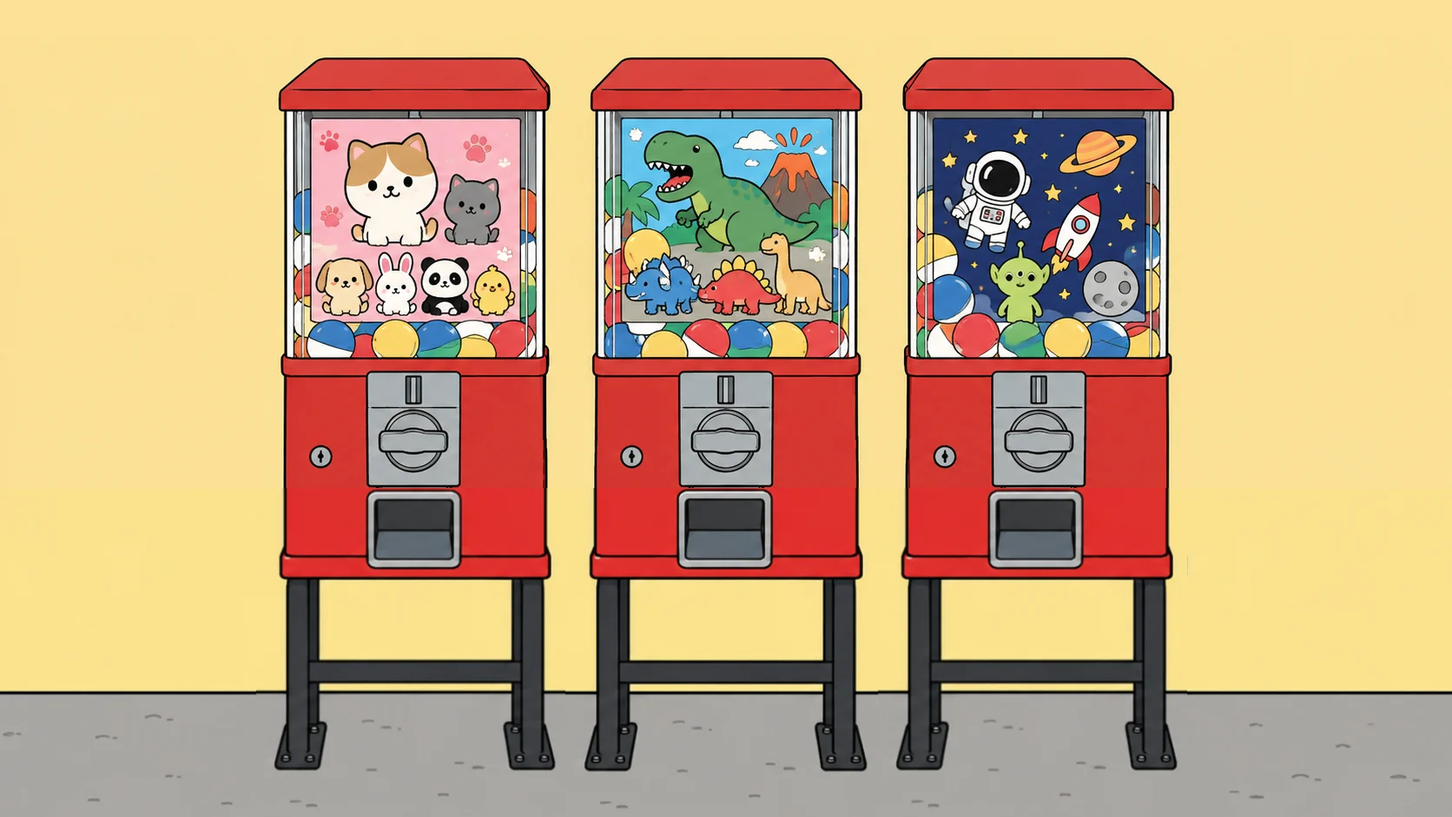
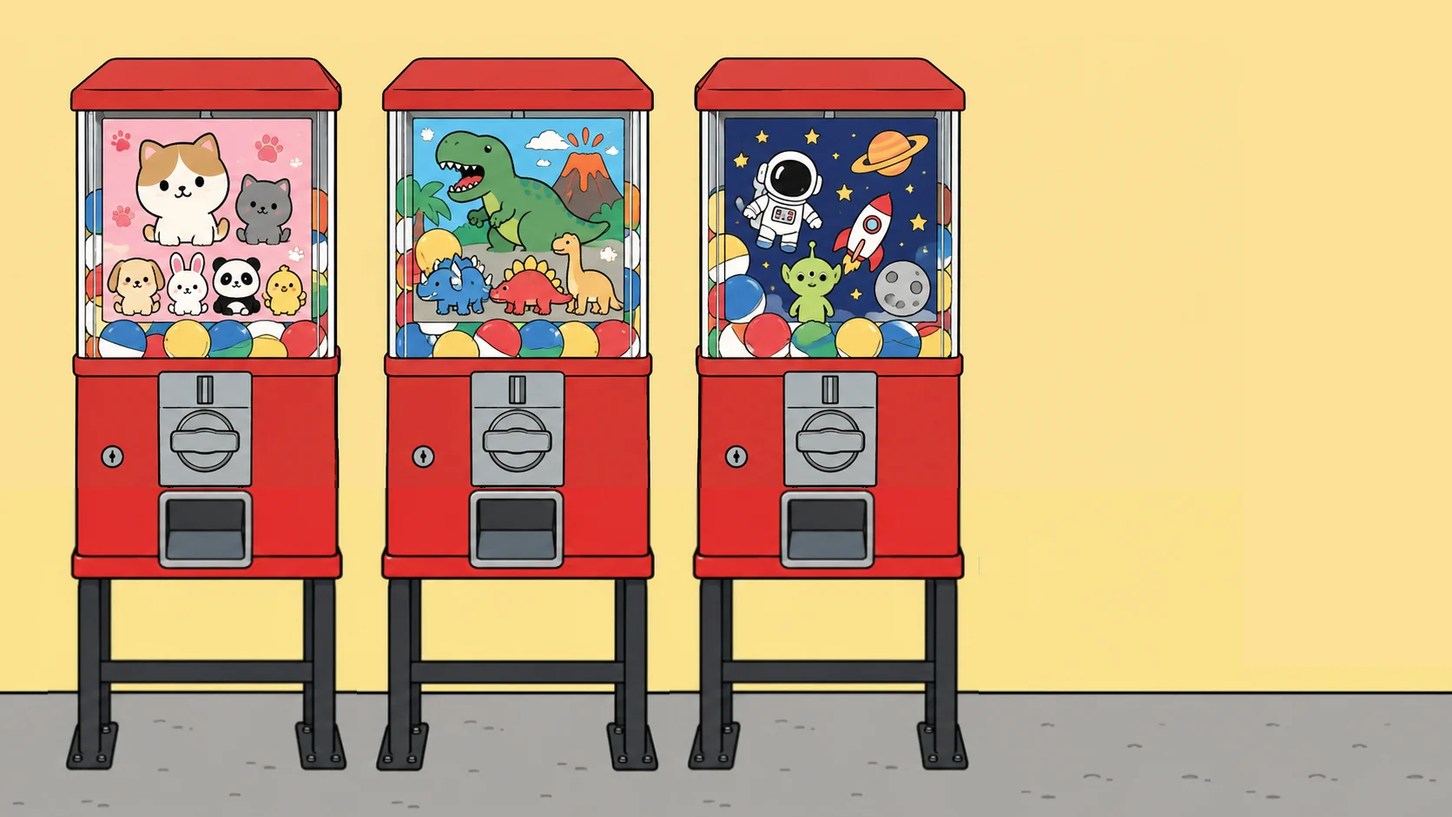
Add files via upload

diff --git a/index.html b/index.html
@@ -18,18 +18,18 @@
     <!-- html2canvas (PNG 저장용) -->
     <script src="https://cdnjs.cloudflare.com/ajax/libs/html2canvas/1.4.1/html2canvas.min.js"></script>
 
-    <script src="js/features.js?v=20261009-1021"></script>   <!-- 🔓 기능 공개 스위치 (다른 것보다 먼저) -->
-    <script src="js/util.js?v=20261009-1021"></script>   <!-- 🧰 공용 도구 (htmlEsc · josa · lsGet · lsSet) -->
-    <script src="js/onlyone.js?v=20261009-1021"></script>   <!-- 🔒 한 기기에 다이어리 하나만 (먼저 연 창만 · 다른 것보다 먼저) -->
+    <script src="js/features.js?v=20261009-1022"></script>   <!-- 🔓 기능 공개 스위치 (다른 것보다 먼저) -->
+    <script src="js/util.js?v=20261009-1022"></script>   <!-- 🧰 공용 도구 (htmlEsc · josa · lsGet · lsSet) -->
+    <script src="js/onlyone.js?v=20261009-1022"></script>   <!-- 🔒 한 기기에 다이어리 하나만 (먼저 연 창만 · 다른 것보다 먼저) -->
     <link rel="preload" as="image" href="img/gate-wide.webp?v=20261009-819" media="(min-aspect-ratio: 1/1)">   <!-- 🚪 로그인 문 그림을 먼저 받아요 (켤 때 바탕색만 잠깐 보이는 것 줄이기 · 도련 10-29) -->
     <link rel="preload" as="image" href="img/gate-tall.webp?v=20261009-819" media="(max-aspect-ratio: 1/1)">
-    <link rel="stylesheet" href="css/style.css?v=20261009-1021">
-    <link rel="stylesheet" href="css/dakku.css?v=20261009-1021">
-    <link rel="stylesheet" href="css/anime.css?v=20261009-1021">
-    <link rel="stylesheet" href="css/calroom.css?v=20261009-1021">   <!-- 📅 달력 (💻 📲 · js/calroom.js) -->   <!-- 🎬 애니 스타일 (맨 뒤 · js/anime.js) -->
-    <link rel="stylesheet" href="css/postroom.css?v=20261009-1021">   <!-- 📮 우체통 (💻 📲 · js/postroom.js) -->
-    <link rel="stylesheet" href="css/tarotroom.css?v=20261009-1021">   <!-- 🔮 타로카페 (💻 📲 · js/tarotroom.js) -->
-    <link rel="stylesheet" href="css/gachascene.css?v=20261009-1021">   <!-- 🏪 문방구 앞 캡슐기계 (💻 📲 · js/gacha.js gcSceneBuild) -->
+    <link rel="stylesheet" href="css/style.css?v=20261009-1022">
+    <link rel="stylesheet" href="css/dakku.css?v=20261009-1022">
+    <link rel="stylesheet" href="css/anime.css?v=20261009-1022">
+    <link rel="stylesheet" href="css/calroom.css?v=20261009-1022">   <!-- 📅 달력 (💻 📲 · js/calroom.js) -->   <!-- 🎬 애니 스타일 (맨 뒤 · js/anime.js) -->
+    <link rel="stylesheet" href="css/postroom.css?v=20261009-1022">   <!-- 📮 우체통 (💻 📲 · js/postroom.js) -->
+    <link rel="stylesheet" href="css/tarotroom.css?v=20261009-1022">   <!-- 🔮 타로카페 (💻 📲 · js/tarotroom.js) -->
+    <link rel="stylesheet" href="css/gachascene.css?v=20261009-1022">   <!-- 🏪 문방구 앞 캡슐기계 (💻 📲 · js/gacha.js gcSceneBuild) -->
     <script src="https://accounts.google.com/gsi/client" async defer></script>
 </head>
 <body>
@@ -971,112 +971,112 @@
     </div>
 
     <!-- 📦 코드 파일 (순서 중요 · 업데이트할 때 ?v= 뒤 숫자를 바꾸면 모든 사용자가 새 파일을 받아요) -->
-    <script src="js/localtest.js?v=20261009-1021"></script>   <!-- 💻 내 컴퓨터(localhost)에서만 : 로그인 없이 테스트 -->
-    <script src="js/trash.js?v=20261009-1021"></script>   <!-- 🗑 휴지통 : 지운 것 · 덮어쓰기 전 모습 30일 -->
-    <script src="js/backup.js?v=20261009-1021"></script>   <!-- 📦 백업 · 📥 불러오기 : 말랑달콤 폴더 통째로 zip -->
-    <script src="js/devsave.js?v=20261009-1021"></script>   <!-- 📁 로그인 없이 : 이 기기의 말랑달콤 폴더에 저장 -->
-    <script src="js/drive.js?v=20261009-1021"></script>
-    <script src="js/desk.js?v=20261009-1021"></script>   <!-- 🪑 책상 꾸미기 (💻 PC · 아이패드만) -->
-    <script src="js/deskpaint.js?v=20261009-1021"></script>
-    <script src="js/deskcustom.js?v=20261009-1021"></script>   <!-- 🎨 소품 꾸미기 창 (색칠 + 불빛 · 숫자 · 알람 · 사진 · 누르는 곳) -->   <!-- 🎨 책상 소품 꾸미기 (칠하기 · 이미지 붙이기) -->
-    <script src="js/coll.js?v=20261009-1021"></script>
-    <script src="js/sound.js?v=20261009-1021"></script>
-    <script src="js/app.js?v=20261009-1021"></script>
-    <script src="js/page.js?v=20261009-1021"></script>
-    <script src="js/elements.js?v=20261009-1021"></script>
-    <script src="js/tapmenu.js?v=20261009-1021"></script>
-    <script src="js/settings.js?v=20261009-1021"></script>
-    <script src="js/patterns.js?v=20261009-1021"></script>
+    <script src="js/localtest.js?v=20261009-1022"></script>   <!-- 💻 내 컴퓨터(localhost)에서만 : 로그인 없이 테스트 -->
+    <script src="js/trash.js?v=20261009-1022"></script>   <!-- 🗑 휴지통 : 지운 것 · 덮어쓰기 전 모습 30일 -->
+    <script src="js/backup.js?v=20261009-1022"></script>   <!-- 📦 백업 · 📥 불러오기 : 말랑달콤 폴더 통째로 zip -->
+    <script src="js/devsave.js?v=20261009-1022"></script>   <!-- 📁 로그인 없이 : 이 기기의 말랑달콤 폴더에 저장 -->
+    <script src="js/drive.js?v=20261009-1022"></script>
+    <script src="js/desk.js?v=20261009-1022"></script>   <!-- 🪑 책상 꾸미기 (💻 PC · 아이패드만) -->
+    <script src="js/deskpaint.js?v=20261009-1022"></script>
+    <script src="js/deskcustom.js?v=20261009-1022"></script>   <!-- 🎨 소품 꾸미기 창 (색칠 + 불빛 · 숫자 · 알람 · 사진 · 누르는 곳) -->   <!-- 🎨 책상 소품 꾸미기 (칠하기 · 이미지 붙이기) -->
+    <script src="js/coll.js?v=20261009-1022"></script>
+    <script src="js/sound.js?v=20261009-1022"></script>
+    <script src="js/app.js?v=20261009-1022"></script>
+    <script src="js/page.js?v=20261009-1022"></script>
+    <script src="js/elements.js?v=20261009-1022"></script>
+    <script src="js/tapmenu.js?v=20261009-1022"></script>
+    <script src="js/settings.js?v=20261009-1022"></script>
+    <script src="js/patterns.js?v=20261009-1022"></script>
     <!-- 🌟 카페에서 받아 등록한 사용자 패턴 (pattern-tool.html 로 만들어요 · 없거나 깨져도 다이어리는 정상 동작) -->
     <script src="js/community-patterns.js"></script>
     <!-- 🌟 카페에서 받아 등록한 모두의 스킨 (pattern-tool.html 로 만들어요 · 없거나 깨져도 다이어리는 정상 동작) -->
     <script src="js/community-skins.js"></script>
-    <script src="js/pattern-recipe.js?v=20261009-1021"></script>
-    <script src="js/skins.js?v=20261009-1021"></script>
-    <script src="js/bin.js?v=20261009-1021"></script>   <!-- 🗑 버린 상품 : 휴지통 30일 · 되살리기 · 영구 삭제 (모든 상품 공통) -->
-    <script src="js/dyyear.js?v=20261009-1021"></script>
-    <script src="js/bgown.js?v=20261009-1021"></script>
-    <script src="js/deskskin.js?v=20261009-1021"></script>   <!-- 🧱 벽지 · 🪵 책상 (책상 화면 · 샵 책상 소품 · 소품함) -->   <!-- 🌈 배경지 = 상품 (샵에서 받기 · 보관함 · 버리기) -->   <!-- 📔 기본 다이어리 = 1년짜리 날짜 다이어리 · 해마다 기본상품 샵에서 받기 · 다이어리 보관소 -->
-    <script src="js/dkguide.js?v=20261009-1021"></script>   <!-- 🩷 처음 쓰는 사람용 다꾸하는 법 메모 -->
-    <script src="js/dymaker.js?v=20261009-1021"></script>
-    <script src="js/pattern-maker.js?v=20261009-1021"></script>
-    <script src="js/skinstudio.js?v=20261009-1021"></script>
-    <script src="js/theme-skins.js?v=20261009-1021"></script>
-    <script src="js/doll-art.js?v=20261009-1021"></script>
-    <script src="js/doll-render.js?v=20261009-1021"></script>
-    <script src="js/doll-store.js?v=20261009-1021"></script>
-    <script src="js/doll-room.js?v=20261009-1021"></script>
-    <script src="js/doll-move.js?v=20261009-1021"></script>
-    <script src="js/glrun.js?v=20261009-1021"></script>
-    <script src="js/char-move.js?v=20261009-1021"></script>
-    <script src="js/puppet.js?v=20261009-1021"></script>
-    <script src="js/service.js?v=20261009-1021"></script>
+    <script src="js/pattern-recipe.js?v=20261009-1022"></script>
+    <script src="js/skins.js?v=20261009-1022"></script>
+    <script src="js/bin.js?v=20261009-1022"></script>   <!-- 🗑 버린 상품 : 휴지통 30일 · 되살리기 · 영구 삭제 (모든 상품 공통) -->
+    <script src="js/dyyear.js?v=20261009-1022"></script>
+    <script src="js/bgown.js?v=20261009-1022"></script>
+    <script src="js/deskskin.js?v=20261009-1022"></script>   <!-- 🧱 벽지 · 🪵 책상 (책상 화면 · 샵 책상 소품 · 소품함) -->   <!-- 🌈 배경지 = 상품 (샵에서 받기 · 보관함 · 버리기) -->   <!-- 📔 기본 다이어리 = 1년짜리 날짜 다이어리 · 해마다 기본상품 샵에서 받기 · 다이어리 보관소 -->
+    <script src="js/dkguide.js?v=20261009-1022"></script>   <!-- 🩷 처음 쓰는 사람용 다꾸하는 법 메모 -->
+    <script src="js/dymaker.js?v=20261009-1022"></script>
+    <script src="js/pattern-maker.js?v=20261009-1022"></script>
+    <script src="js/skinstudio.js?v=20261009-1022"></script>
+    <script src="js/theme-skins.js?v=20261009-1022"></script>
+    <script src="js/doll-art.js?v=20261009-1022"></script>
+    <script src="js/doll-render.js?v=20261009-1022"></script>
+    <script src="js/doll-store.js?v=20261009-1022"></script>
+    <script src="js/doll-room.js?v=20261009-1022"></script>
+    <script src="js/doll-move.js?v=20261009-1022"></script>
+    <script src="js/glrun.js?v=20261009-1022"></script>
+    <script src="js/char-move.js?v=20261009-1022"></script>
+    <script src="js/puppet.js?v=20261009-1022"></script>
+    <script src="js/service.js?v=20261009-1022"></script>
     <!-- 🎁 랜덤박스 (없어도 다이어리는 정상 동작) -->
-    <script src="js/gacha.js?v=20261009-1021"></script>
-    <script src="js/presence.js?v=20261009-1021"></script>
-    <script src="js/fbase.js?v=20261009-1021"></script>   <!-- 🔥 파이어스토어 연결 (🔔 선물 벨 · 📞 전화기) -->
-    <script src="js/fphone.js?v=20261009-1021"></script>   <!-- 📞 반짝이 피처폰 메신저 (로그인 회원끼리) -->
+    <script src="js/gacha.js?v=20261009-1022"></script>
+    <script src="js/presence.js?v=20261009-1022"></script>
+    <script src="js/fbase.js?v=20261009-1022"></script>   <!-- 🔥 파이어스토어 연결 (🔔 선물 벨 · 📞 전화기) -->
+    <script src="js/fphone.js?v=20261009-1022"></script>   <!-- 📞 반짝이 피처폰 메신저 (로그인 회원끼리) -->
     <!-- 🎵 배경음악 (없어도 다이어리는 정상 동작) -->
-    <script src="js/bgm.js?v=20261009-1021"></script>
+    <script src="js/bgm.js?v=20261009-1022"></script>
     <!-- 🔮 포춘카드 (없어도 다이어리는 정상 동작) -->
-    <script src="js/fortune.js?v=20261009-1021"></script>
+    <script src="js/fortune.js?v=20261009-1022"></script>
     <!-- 🕹 오락실 (없어도 다이어리는 정상 동작) -->
-    <script src="js/arcade.js?v=20261009-1021"></script>
-    <script src="js/hof.js?v=20261009-1021"></script>
+    <script src="js/arcade.js?v=20261009-1022"></script>
+    <script src="js/hof.js?v=20261009-1022"></script>
     <!-- 🌙 꿈해몽 (상징 사전 js/dream-data.js 는 꿈해몽을 열 때 불러와요 · 없어도 다이어리는 정상 동작) -->
-    <script src="js/ritual.js?v=20261009-1021"></script>
-    <script src="js/dream.js?v=20261009-1021"></script>
+    <script src="js/ritual.js?v=20261009-1022"></script>
+    <script src="js/dream.js?v=20261009-1022"></script>
     <!-- 🎍 토정비결 (음력 계산 js/lib/korean-lunar-calendar.min.js 는 토정비결을 열 때 불러와요 · 없어도 다이어리는 정상 동작) -->
-    <script src="js/tojeong.js?v=20261009-1021"></script>
-    <script src="js/plant.js?v=20261009-1021"></script>
-    <script src="js/capsule-stickers.js?v=20261009-1021"></script>
-    <script src="js/attend.js?v=20261009-1021"></script>
-    <script src="js/tape.js?v=20261009-1021"></script>
-    <script src="js/paper.js?v=20261009-1021"></script>
-    <script src="js/leafpad.js?v=20261009-1021"></script>
-    <script src="js/leafmaker.js?v=20261009-1021"></script>
-    <script src="js/draw.js?v=20261009-1021"></script>
-    <script src="js/pencase.js?v=20261009-1021"></script>
-    <script src="js/frame.js?v=20261009-1021"></script>
-    <script src="js/season-data.js?v=20261009-1021"></script>
-    <script src="js/season.js?v=20261009-1021"></script>
-    <script src="js/lock.js?v=20261009-1021"></script>
-    <script src="js/cycle.js?v=20261009-1021"></script>
-    <script src="js/month.js?v=20261009-1021"></script>
-    <script src="js/stamp.js?v=20261009-1021"></script>
-    <script src="js/search.js?v=20261009-1021"></script>
-    <script src="js/dday.js?v=20261009-1021"></script>
-    <script src="js/calroom.js?v=20261009-1021"></script>   <!-- 📅 달력 : 출석 · 생리 · D-day 한 장 (💻 📲) -->
-    <script src="js/postroom.js?v=20261009-1021"></script>   <!-- 📮 우체통 : 익명 편지함 · 건의함 (💻 📲) -->
-    <script src="js/tarotroom.js?v=20261009-1021"></script>   <!-- 🔮 타로카페 : 카드 다섯 장 = 메뉴 (💻 📲) -->
-    <script src="js/show.js?v=20261009-1021"></script>
-    <script src="js/press.js?v=20261009-1021"></script>
-    <script src="js/photobooth.js?v=20261009-1021"></script>
-    <script src="js/stickermaker.js?v=20261009-1021"></script>
-    <script src="js/stickerpeel.js?v=20261009-1021"></script>
-    <script src="js/stkedit.js?v=20261009-1021"></script>   <!-- 🎨 스티커 다듬기 : 씰 종이에서 떼기 전에 색 · 뒤집기 · 자르기 · 지우개 · 글씨 · 반짝이 -->
-    <script src="js/stkcut.js?v=20261009-1021"></script>   <!-- ✂ 스티커 자르기 : 꾹 누르기 메뉴 → 스티커 칼로 가로질러 그어 두 조각 -->
-    <script src="js/ruler.js?v=20261009-1021"></script>   <!-- 📏 자 : 연필꽂이에서 뽑아 페이지에 깔아 둬요 · 칼 · 색연필을 대면 반듯하게 · 진짜 cm -->
-    <script src="js/piecebag.js?v=20261009-1021"></script>
-    <script src="js/dakku.js?v=20261009-1021"></script>
-    <script src="js/papermaker.js?v=20261009-1021"></script>
-    <script src="js/stk-basic.js?v=20261009-1021"></script>
-    <script src="js/peelfx.js?v=20261009-1021"></script>
-    <script src="js/tapemaker.js?v=20261009-1021"></script>
-    <script src="js/sharebox.js?v=20261009-1021"></script>
-    <script src="js/namematch.js?v=20261009-1021"></script>
-    <script src="js/psytest-data.js?v=20261009-1021"></script>
-    <script src="js/psytest.js?v=20261009-1021"></script>
-    <script src="js/letter.js?v=20261009-1021"></script>
-    <script src="js/install.js?v=20261009-1021"></script>
-    <script src="js/piggy.js?v=20261009-1021"></script>
-    <script src="js/wall.js?v=20261009-1021"></script>
-    <script src="js/arrival.js?v=20261009-1021"></script>
-    <script src="js/own.js?v=20261009-1021"></script>   <!-- 🎒 유한 스티커 : 내 종이 저장 · 한 번 쓰면 영원히 사라져요 -->
-    <script src="js/basket.js?v=20261009-1021"></script>   <!-- 🧺 내 바구니 · 🏪 기본상품 샵 -->
-    <script src="js/itemshare.js?v=20261009-1021"></script>   <!-- 📤 공유 파일로 저장 · 📥 불러오기 (받으면 그 계정의 새 1개) -->
-    <script src="js/shopscene.js?v=20261009-1021"></script>
-    <script src="js/anime.js?v=20261009-1021"></script>   <!-- 🎬 애니 스타일 : SVG 그림을 단색 · 파스텔 선으로 (css/anime.css) -->   <!-- 🏪 기본상품 샵 가게 (문 → 연핑크 → 가게 안) -->
+    <script src="js/tojeong.js?v=20261009-1022"></script>
+    <script src="js/plant.js?v=20261009-1022"></script>
+    <script src="js/capsule-stickers.js?v=20261009-1022"></script>
+    <script src="js/attend.js?v=20261009-1022"></script>
+    <script src="js/tape.js?v=20261009-1022"></script>
+    <script src="js/paper.js?v=20261009-1022"></script>
+    <script src="js/leafpad.js?v=20261009-1022"></script>
+    <script src="js/leafmaker.js?v=20261009-1022"></script>
+    <script src="js/draw.js?v=20261009-1022"></script>
+    <script src="js/pencase.js?v=20261009-1022"></script>
+    <script src="js/frame.js?v=20261009-1022"></script>
+    <script src="js/season-data.js?v=20261009-1022"></script>
+    <script src="js/season.js?v=20261009-1022"></script>
+    <script src="js/lock.js?v=20261009-1022"></script>
+    <script src="js/cycle.js?v=20261009-1022"></script>
+    <script src="js/month.js?v=20261009-1022"></script>
+    <script src="js/stamp.js?v=20261009-1022"></script>
+    <script src="js/search.js?v=20261009-1022"></script>
+    <script src="js/dday.js?v=20261009-1022"></script>
+    <script src="js/calroom.js?v=20261009-1022"></script>   <!-- 📅 달력 : 출석 · 생리 · D-day 한 장 (💻 📲) -->
+    <script src="js/postroom.js?v=20261009-1022"></script>   <!-- 📮 우체통 : 익명 편지함 · 건의함 (💻 📲) -->
+    <script src="js/tarotroom.js?v=20261009-1022"></script>   <!-- 🔮 타로카페 : 카드 다섯 장 = 메뉴 (💻 📲) -->
+    <script src="js/show.js?v=20261009-1022"></script>
+    <script src="js/press.js?v=20261009-1022"></script>
+    <script src="js/photobooth.js?v=20261009-1022"></script>
+    <script src="js/stickermaker.js?v=20261009-1022"></script>
+    <script src="js/stickerpeel.js?v=20261009-1022"></script>
+    <script src="js/stkedit.js?v=20261009-1022"></script>   <!-- 🎨 스티커 다듬기 : 씰 종이에서 떼기 전에 색 · 뒤집기 · 자르기 · 지우개 · 글씨 · 반짝이 -->
+    <script src="js/stkcut.js?v=20261009-1022"></script>   <!-- ✂ 스티커 자르기 : 꾹 누르기 메뉴 → 스티커 칼로 가로질러 그어 두 조각 -->
+    <script src="js/ruler.js?v=20261009-1022"></script>   <!-- 📏 자 : 연필꽂이에서 뽑아 페이지에 깔아 둬요 · 칼 · 색연필을 대면 반듯하게 · 진짜 cm -->
+    <script src="js/piecebag.js?v=20261009-1022"></script>
+    <script src="js/dakku.js?v=20261009-1022"></script>
+    <script src="js/papermaker.js?v=20261009-1022"></script>
+    <script src="js/stk-basic.js?v=20261009-1022"></script>
+    <script src="js/peelfx.js?v=20261009-1022"></script>
+    <script src="js/tapemaker.js?v=20261009-1022"></script>
+    <script src="js/sharebox.js?v=20261009-1022"></script>
+    <script src="js/namematch.js?v=20261009-1022"></script>
+    <script src="js/psytest-data.js?v=20261009-1022"></script>
+    <script src="js/psytest.js?v=20261009-1022"></script>
+    <script src="js/letter.js?v=20261009-1022"></script>
+    <script src="js/install.js?v=20261009-1022"></script>
+    <script src="js/piggy.js?v=20261009-1022"></script>
+    <script src="js/wall.js?v=20261009-1022"></script>
+    <script src="js/arrival.js?v=20261009-1022"></script>
+    <script src="js/own.js?v=20261009-1022"></script>   <!-- 🎒 유한 스티커 : 내 종이 저장 · 한 번 쓰면 영원히 사라져요 -->
+    <script src="js/basket.js?v=20261009-1022"></script>   <!-- 🧺 내 바구니 · 🏪 기본상품 샵 -->
+    <script src="js/itemshare.js?v=20261009-1022"></script>   <!-- 📤 공유 파일로 저장 · 📥 불러오기 (받으면 그 계정의 새 1개) -->
+    <script src="js/shopscene.js?v=20261009-1022"></script>
+    <script src="js/anime.js?v=20261009-1022"></script>   <!-- 🎬 애니 스타일 : SVG 그림을 단색 · 파스텔 선으로 (css/anime.css) -->   <!-- 🏪 기본상품 샵 가게 (문 → 연핑크 → 가게 안) -->
 
     <!-- 🛡 파일 누락 확인 : 하나라도 못 읽었으면 다이어리를 시작하지 않아서 잘못된 저장을 막아요 -->
     <script>

diff --git a/css/gachascene.css b/css/gachascene.css
@@ -1,4 +1,4 @@
-/* 🏪 문방구 앞 캡슐기계 (도련 10-31 · 시안 B · js/gacha.js gcSceneBuild) : 💻 📲 만 · 그림 1672 × 941 가운데 기계 = 우리 기계 · 📱 폰은 예전 기계 그대로 */
+/* 🏪 문방구 앞 캡슐기계 (도련 10-31 · 시안 B · js/gacha.js gcSceneBuild) : 💻 📲 만 · 그림 1672 × 941 맨 오른쪽 기계 = 우리 기계 (오른쪽 벽 = 메뉴판) · 📱 폰은 예전 기계 그대로 */
 .gc-room.gc-scene { padding: 0; overflow: hidden; background: #f7df90; }
 .gcs-blur { position: absolute; inset: -40px; width: calc(100% + 80px); height: calc(100% + 80px); object-fit: cover; filter: blur(22px); pointer-events: none; }   /* 그림 밖(패드 위아래) = 흐린 그림 */
 .gcs-stage { position: absolute; left: 0; top: 0; width: 1672px; height: 941px; transform-origin: 0 0; }
@@ -8,7 +8,7 @@
 html body.gacha-on #moveModal { z-index: 1650 !important; }                                       /* 이동 창은 캡슐기계 위에 */
 
 /* 제목 · 코인 (왼쪽 위) */
-.gc-scene .gc-head { position: absolute; left: 24px; top: 20px; gap: 12px; padding: 8px 12px 8px 18px; border-radius: 999px; background: #fffdf6; border: 2.5px solid #2a2a2a; box-shadow: 3px 4px 0 rgba(0, 0, 0, .15); }
+.gc-scene .gc-head { position: absolute; left: 1170px; top: 92px; gap: 12px; padding: 8px 12px 8px 18px; border-radius: 999px; background: #fffdf6; border: 2.5px solid #2a2a2a; box-shadow: 3px 4px 0 rgba(0, 0, 0, .15); }
 .gc-scene .gc-title { font-size: 26px; flex: none; }
 .gc-scene .gc-chip { font-size: 15px; padding: 4px 12px 4px 5px; }
 .gc-scene .gc-coin-ico { width: 24px; height: 24px; font-size: 12px; }
@@ -17,9 +17,9 @@ html body.gacha-on #moveModal { z-index: 1650 !important; }                     
 /* 기계 = 그림 자리로 */
 .gc-scene .gc-machine { position: absolute; left: 0; top: 0; width: 1672px; height: 941px; max-width: none; margin: 0; display: block; pointer-events: none; }
 .gc-scene .gc-machine > * { pointer-events: auto; }
-.gc-scene .gc-dome { position: absolute; left: 702px; top: 129px; width: 272px; height: 284px; max-width: none; border: 0; border-radius: 0; box-shadow: none; background: linear-gradient(#eef8fc, #dceef6); }
+.gc-scene .gc-dome { position: absolute; left: 821px; top: 129px; width: 272px; height: 284px; max-width: none; border: 0; border-radius: 0; box-shadow: none; background: linear-gradient(#eef8fc, #dceef6); }
 .gc-scene .gc-dome::after { left: 8px; top: 6px; width: 22px; height: 110px; border-radius: 0; background: linear-gradient(rgba(255, 255, 255, .8), rgba(255, 255, 255, 0)); transform: skewX(-18deg); }
-.gc-scene .gc-body { position: absolute; left: 686px; top: 416px; width: 304px; height: 244px; max-width: none; background: none; box-shadow: none; border-radius: 6px; }
+.gc-scene .gc-body { position: absolute; left: 805px; top: 416px; width: 304px; height: 244px; max-width: none; background: none; box-shadow: none; border-radius: 6px; }
 .gc-scene .gc-chute { display: none; }
 .gc-scene .gc-label { top: -280px; left: 50%; right: auto; translate: -50% 0; white-space: nowrap; padding: 5px 14px 6px; border-radius: 10px; background: #fffdf6; border: 2.5px solid #2a2a2a; box-shadow: 2px 3px 0 rgba(0, 0, 0, .18); color: #e2342f; font-size: 18px; letter-spacing: 1.5px; font-weight: 900; text-shadow: none; pointer-events: none; z-index: 1; }   /* 유리 위 라벨 스티커 */
 .gc-scene .gc-label small { color: #555; opacity: 1; font-size: 12px; font-weight: 800; letter-spacing: 0; }
@@ -35,13 +35,18 @@ html body.gacha-on #moveModal { z-index: 1650 !important; }                     
 @keyframes gcsGlow { 50% { box-shadow: 0 0 0 6px #fff6a8, 0 0 26px 8px rgba(255, 240, 120, .9); } }
 .gc-scene .gc-crank-hint { left: 212px; right: auto; top: 66px; width: 72px; font-size: 15px; line-height: 1.35; white-space: pre-line; text-shadow: 0 1px 2px rgba(0, 0, 0, .5); word-break: keep-all; }   /* 손잡이 오른쪽 빈 곳 (LED 안쪽 · 도련 10-31) */
 /* 캡슐 나오는 곳 */
-.gc-scene .gc-tray { position: absolute; left: 786px; top: 566px; width: 104px; height: 84px; place-items: center; }
+.gc-scene .gc-tray { position: absolute; left: 905px; top: 566px; width: 104px; height: 84px; place-items: center; }
 .gc-scene .gc-capsule { margin-top: 0; transform-origin: 50% 50%; scale: .85; }
 .gc-scene .gc-tap { top: 96px; white-space: nowrap; padding: 4px 12px; border-radius: 999px; background: #fffdf6; border: 2px solid #2a2a2a; color: #5a3a20; font-size: 14px; }
 
 /* 글 · 버튼 · 결과 = 오른쪽 카드 */
-.gc-scene .gc-wrap { position: absolute; left: 1384px; top: 100px; width: 270px; max-width: none; max-height: 820px; overflow-y: auto; box-sizing: border-box; padding: 14px; gap: 12px;
+.gc-scene .gc-wrap { position: absolute; left: 1170px; top: 170px; width: 430px; max-width: none; max-height: 700px; overflow-y: auto; box-sizing: border-box; padding: 22px; gap: 16px;   /* 🪧 메뉴판 = 오른쪽 넓은 벽 (도련 10-31 · 그림을 왼쪽으로 옮긴 새 그림) */
     background: rgba(255, 253, 246, .97); border: 2.5px solid #2a2a2a; border-radius: 18px; box-shadow: 3px 4px 0 rgba(0, 0, 0, .15); scrollbar-width: thin; }
-.gc-scene .gc-say { font-size: 17px; }
-.gc-scene .gc-prize { width: 170px; }
-.gc-scene .gc-odds table { font-size: 13px; }
+.gc-scene .gc-say { font-size: 22px; line-height: 1.5; }
+.gc-scene .gc-main { font-size: 22px; padding: 14px 18px; border-radius: 16px; }
+.gc-scene .gc-odds { font-size: 17px; padding: 12px 16px; }
+.gc-scene .gc-odds table { font-size: 15px; }
+.gc-scene .gc-sound { font-size: 15px; }
+.gc-scene .gc-result h3 { font-size: 30px; }
+.gc-scene .gc-result p { font-size: 16px; }
+.gc-scene .gc-prize { width: 220px; }

diff --git a/js/gacha.js b/js/gacha.js
@@ -135,7 +135,7 @@
             closeGacha(); if (window.bkOpenSheet) bkOpenSheet(id);
         }
         /* ---------- 🏪 문방구 앞 캡슐기계 (도련 10-31 · 시안 B · 💻 📲 만 · 📱 폰은 예전 기계 그대로) ----------
-           - 그림(img/gacha-room.webp · 도련 그림 1672 × 941) 가운데 기계 = 우리 기계 : 유리 안 = 캡슐 (그림체처럼 굵은 선) · 동전 구멍 · 손잡이 · 나오는 곳 = 그림 그 자리
+           - 그림(img/gacha-room.webp · 도련 그림 1672 × 941) 맨 오른쪽 기계 = 우리 기계 (10-31 새 그림 · 기계 셋이 왼쪽 · 오른쪽 넓은 벽 = 메뉴판) : 유리 안 = 캡슐 (그림체처럼 굵은 선) · 동전 구멍 · 손잡이 · 나오는 곳 = 그림 그 자리
            - 원래 기계의 부분(캡슐 · 동전 · 손잡이 · LED · 캡슐 나오는 곳)을 그림 자리로 옮겨요 (새로 만들지 않아요) · 글 · 버튼 · 결과 = 오른쪽 카드
            - 양옆 기계 = 다음 테마 (준비중) · 닫기 대신 '이동' (장소 · data-place="gacha" · body.gacha-on) */
         const GCS_W = 1672, GCS_H = 941;
@@ -145,13 +145,13 @@
             const cv = gq('gcCanvas'); cv.width = gc.W; cv.height = gc.H;
             el.classList.add('gc-scene');
             const st = document.createElement('div'); st.className = 'gcs-stage'; st.id = 'gcsStage';
-            st.innerHTML = `<img class="gcs-bg" src="img/gacha-room.webp?v=20261009-1019" alt="" draggable="false">
-                <span class="gcs-soon" style="left:478px">🐾 동물 캡슐 · 준비중</span><span class="gcs-soon" style="left:1196px">🚀 우주 캡슐 · 준비중</span>
+            st.innerHTML = `<img class="gcs-bg" src="img/gacha-room.webp?v=20261009-1022" alt="" draggable="false">
+                <span class="gcs-soon" style="left:238px">🐾 동물 캡슐 · 준비중</span><span class="gcs-soon" style="left:596px">🦖 공룡 캡슐 · 준비중</span>
                 <button type="button" class="gcs-go desk-shop-go" onclick="deskMoveOpen()">이동</button>`;
             const wrap = el.querySelector('.gc-wrap');
             st.appendChild(el.querySelector('.gc-head')); st.appendChild(el.querySelector('.gc-machine')); st.appendChild(wrap);
             el.insertBefore(st, el.firstChild);
-            const blur = document.createElement('img'); blur.className = 'gcs-blur'; blur.src = 'img/gacha-room.webp?v=20261009-1019'; blur.alt = ''; el.insertBefore(blur, st);
+            const blur = document.createElement('img'); blur.className = 'gcs-blur'; blur.src = 'img/gacha-room.webp?v=20261009-1022'; blur.alt = ''; el.insertBefore(blur, st);
             addEventListener('resize', () => { if (gc.open) gcSceneFit(); });
         }
         function gcSceneFit() {
